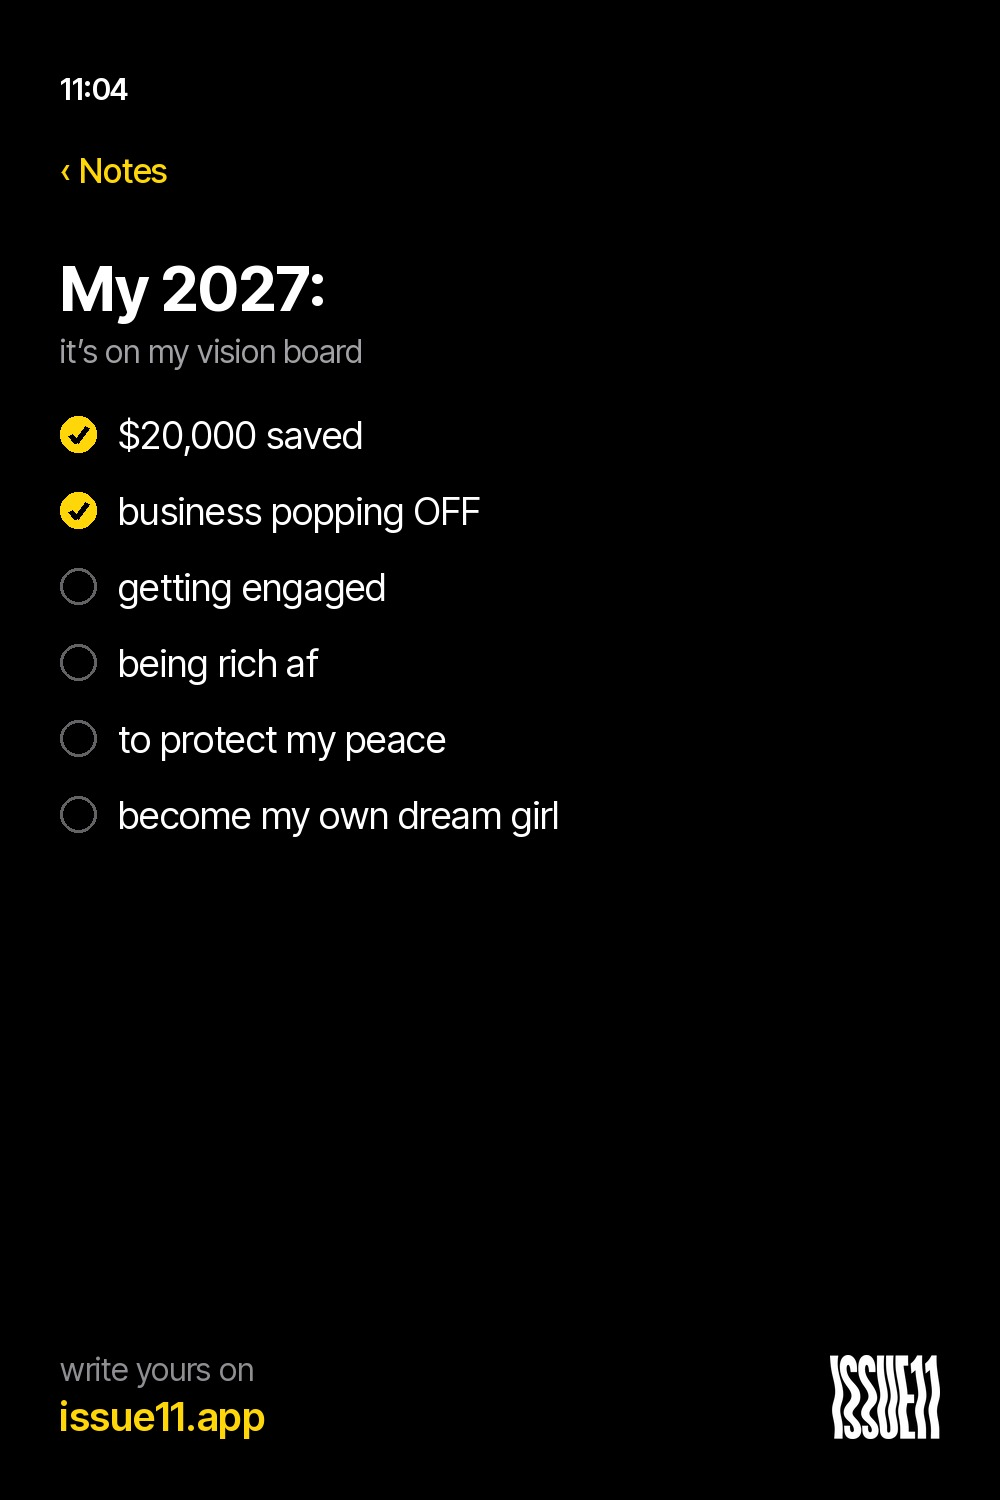
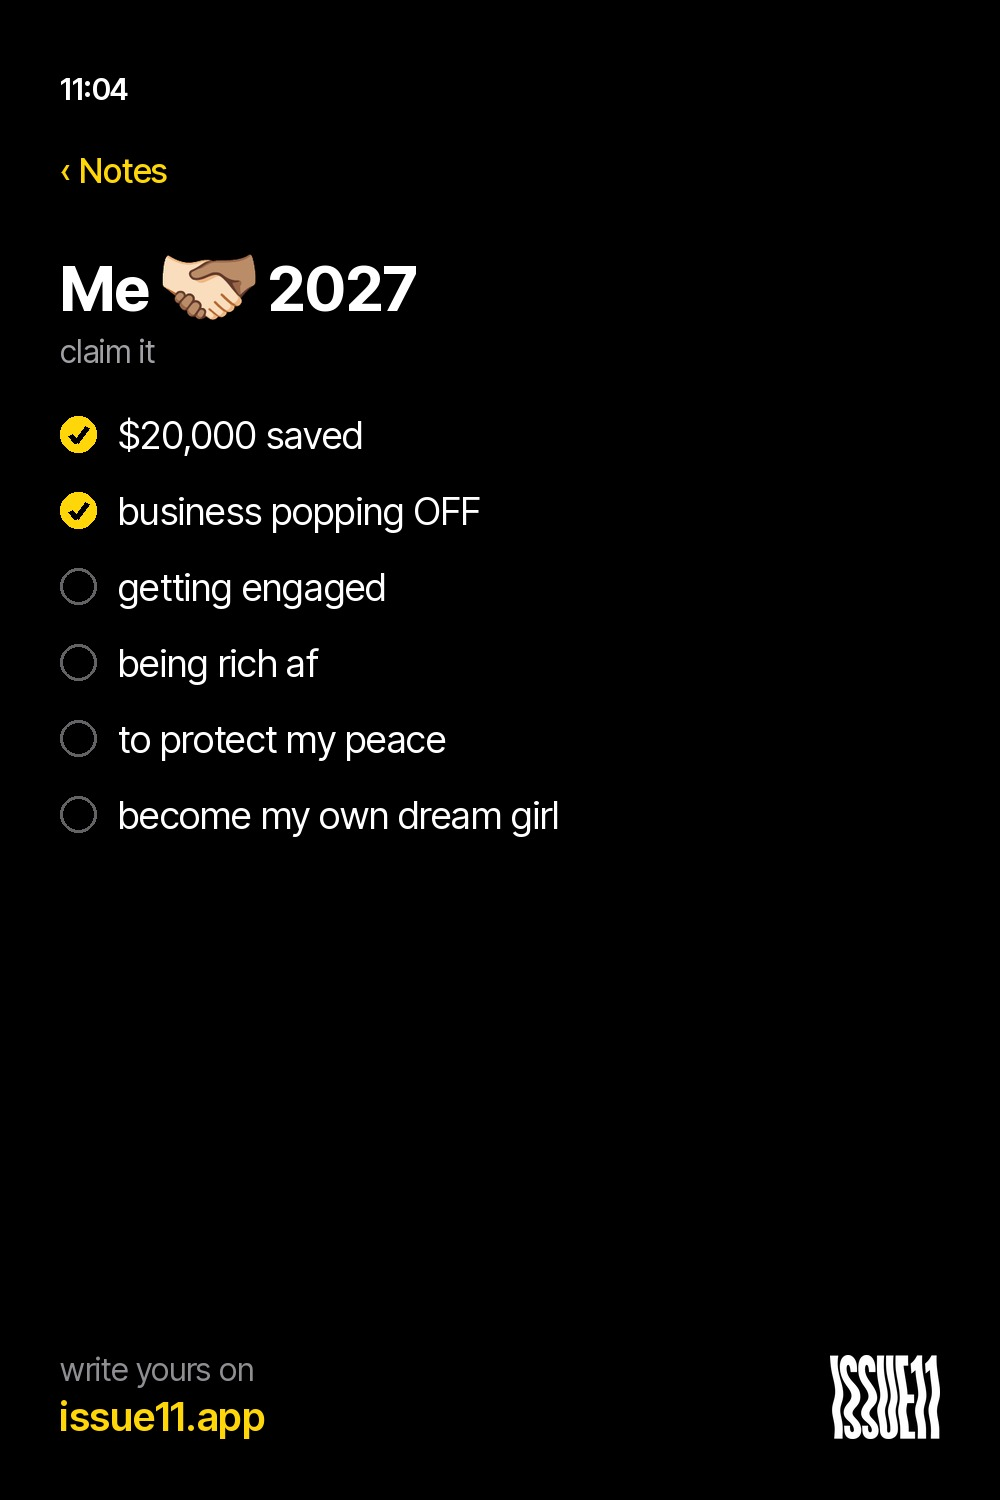
Pinterest: "Me 🫱🏻🫲🏽 2027" title with colour emoji, "claim it" subline
Claude-Session: https://claude.ai/code/session_013zCndAMB566ZdjtTW5BiS4

Changed region(s): [[0.062, 0.1533, 0.434, 0.2453]]

diff --git a/drafts/pinterest/templates/notes_v2.py b/drafts/pinterest/templates/notes_v2.py
@@ -12,13 +12,23 @@ def wrap(d,text,f,maxw):
         if d.textlength(t,font=f)>maxw and cur: out.append(cur); cur=w
         else: cur=t
     out.append(cur); return out
+EMO='\U0001FAF1\U0001F3FB\u200d\U0001FAF2\U0001F3FD'
 def notes(hook,hl,ps,out,sub=""):
     im=Image.new("RGBA",(W,H),(0,0,0)); d=ImageDraw.Draw(im)
     Y=(255,214,10); G=(160,160,165)
     d.text((60,70),"11:04",font=IT(30,"SemiBold"),fill=(255,255,255))
     d.text((60,150),"‹ Notes",font=IT(34,"Medium"),fill=Y)
     f=IT(62,"Bold"); y=250
-    for l in wrap(d,hook,f,W-120):
+    if EMO in hook:
+        a,b=hook.split(EMO); x=60
+        d.text((x,y),a,font=f,fill=(255,255,255)); x+=d.textlength(a,font=f)
+        ef=ImageFont.truetype("/usr/share/fonts/truetype/noto/NotoColorEmoji.ttf",109,layout_engine=ImageFont.Layout.RAQM)
+        bb=d.textbbox((0,0),EMO,font=ef,embedded_color=True)
+        e=Image.new("RGBA",(bb[2]+10,bb[3]+10),(0,0,0,0)); ImageDraw.Draw(e).text((0,0),EMO,font=ef,embedded_color=True)
+        e=e.crop(e.getbbox()); sc=66/e.height; e=e.resize((int(e.width*sc),66),Image.LANCZOS)
+        im.alpha_composite(e,(int(x),y+4)); x+=e.width+d.textlength(" ",font=f)
+        d.text((x,y),b.strip(),font=f,fill=(255,255,255)); y+=72
+    for l in ([] if EMO in hook else wrap(d,hook,f,W-120)):
         x=60
         for w in l.split():
             ww=d.textlength(w,font=f)
@@ -44,7 +54,7 @@ A=["getting engaged","being rich af","business popping OFF","$20,000 saved","my 
 B=["$20,000 saved","business popping OFF","getting engaged","being rich af","to protect my peace","become my own dream girl"]
 C=["being rich af","$20,000 saved","business popping OFF","getting engaged","my dream home","become my own dream girl"]
 print(notes("My 2027:",[],A,"D1-notes-11pm.jpg",sub="same girl, bigger dreams"))
-print(notes("My 2027:",[],B,"D2-notes-too-grown.jpg",sub="it’s on my vision board"))
+print(notes("Me "+EMO+" 2027",[],B,"D2-notes-too-grown.jpg",sub="claim it"))
 print(notes("My 2027:",[],C,"D3-notes-claim-it.jpg",sub="yes, i claim it"))
 ims=[Image.open(OUT+f) for f in ["D1-notes-11pm.jpg","D2-notes-too-grown.jpg","D3-notes-claim-it.jpg"]]
 s=Image.new('RGB',(3*390+20,600),(255,255,255)); x=10
